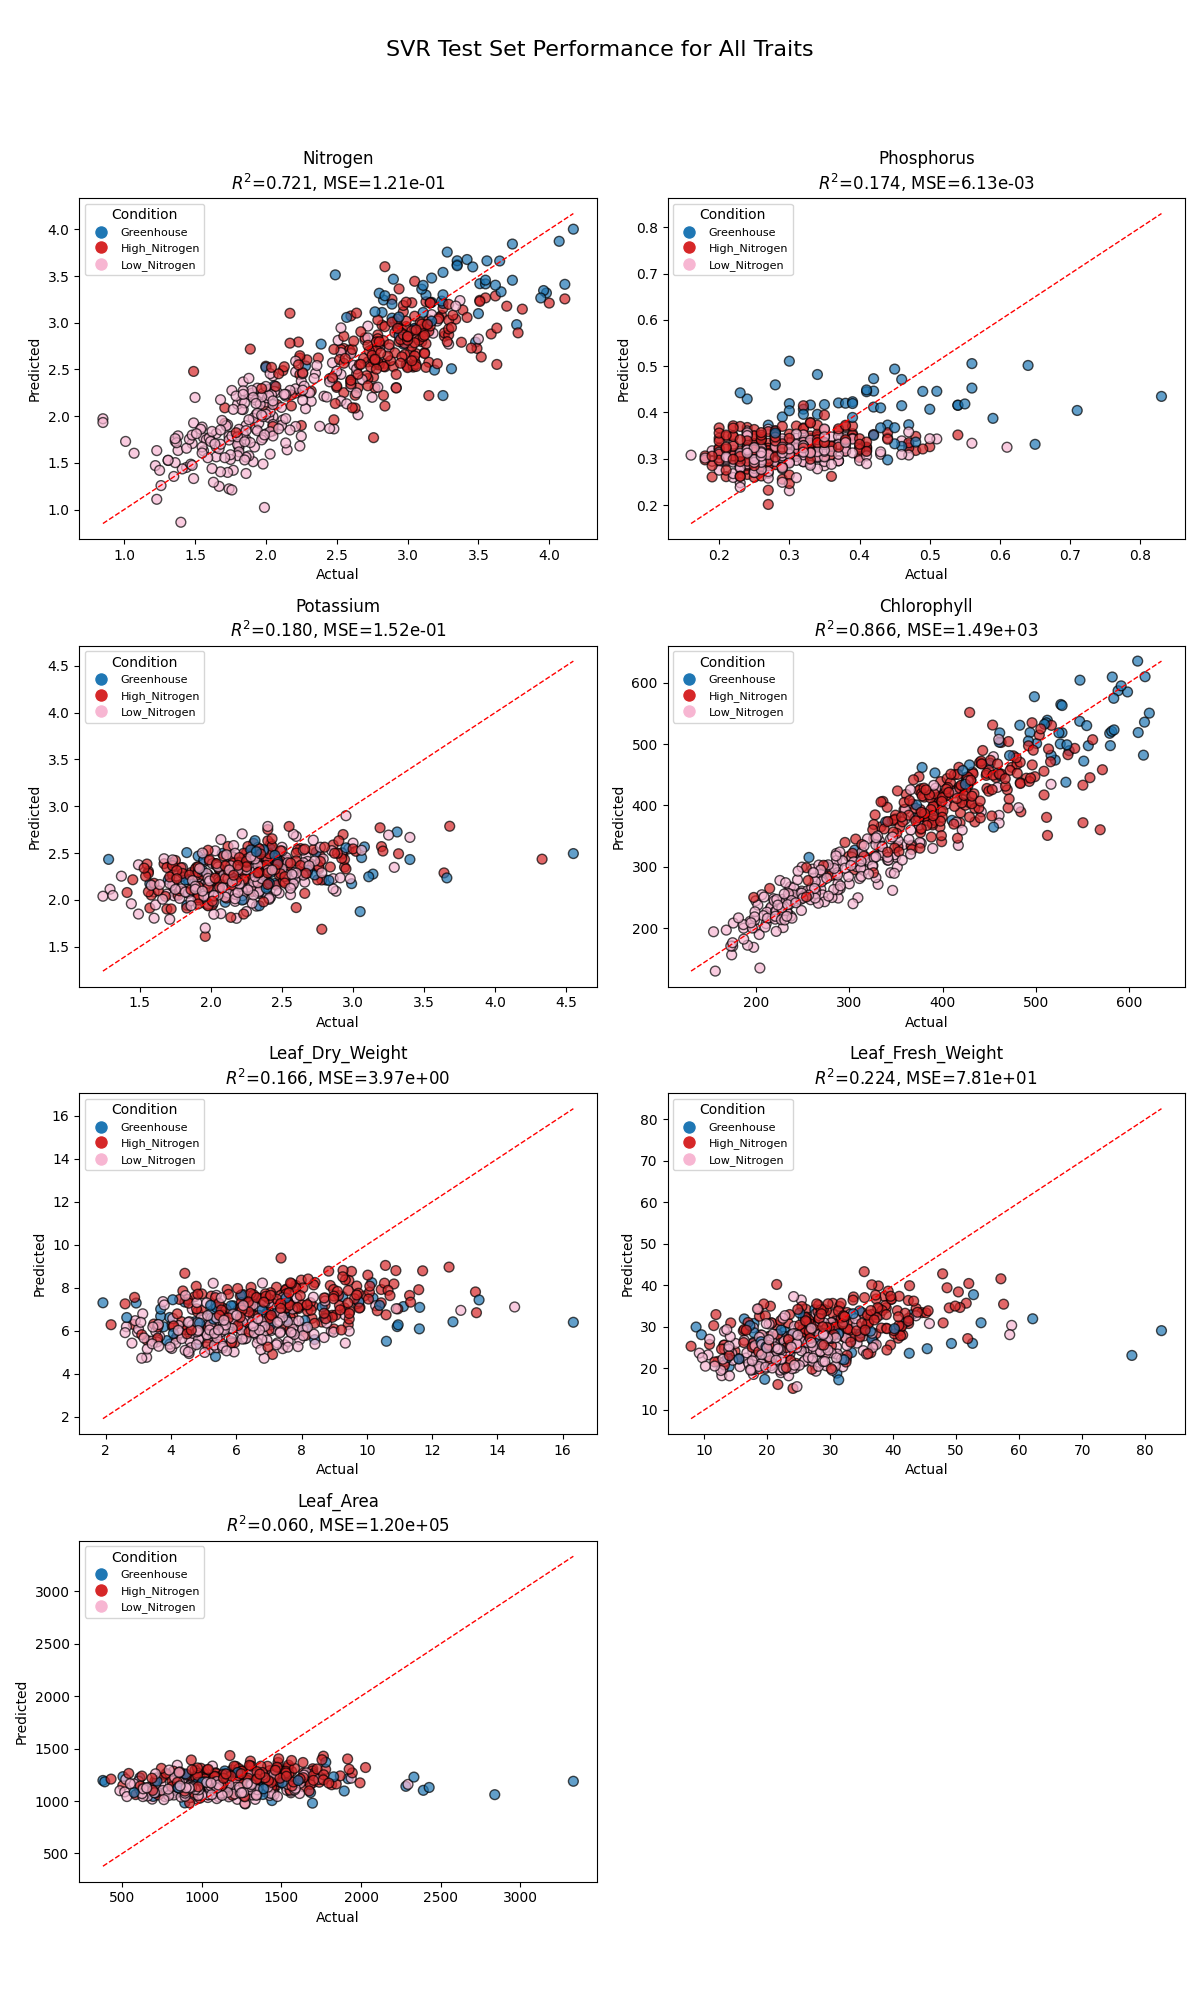
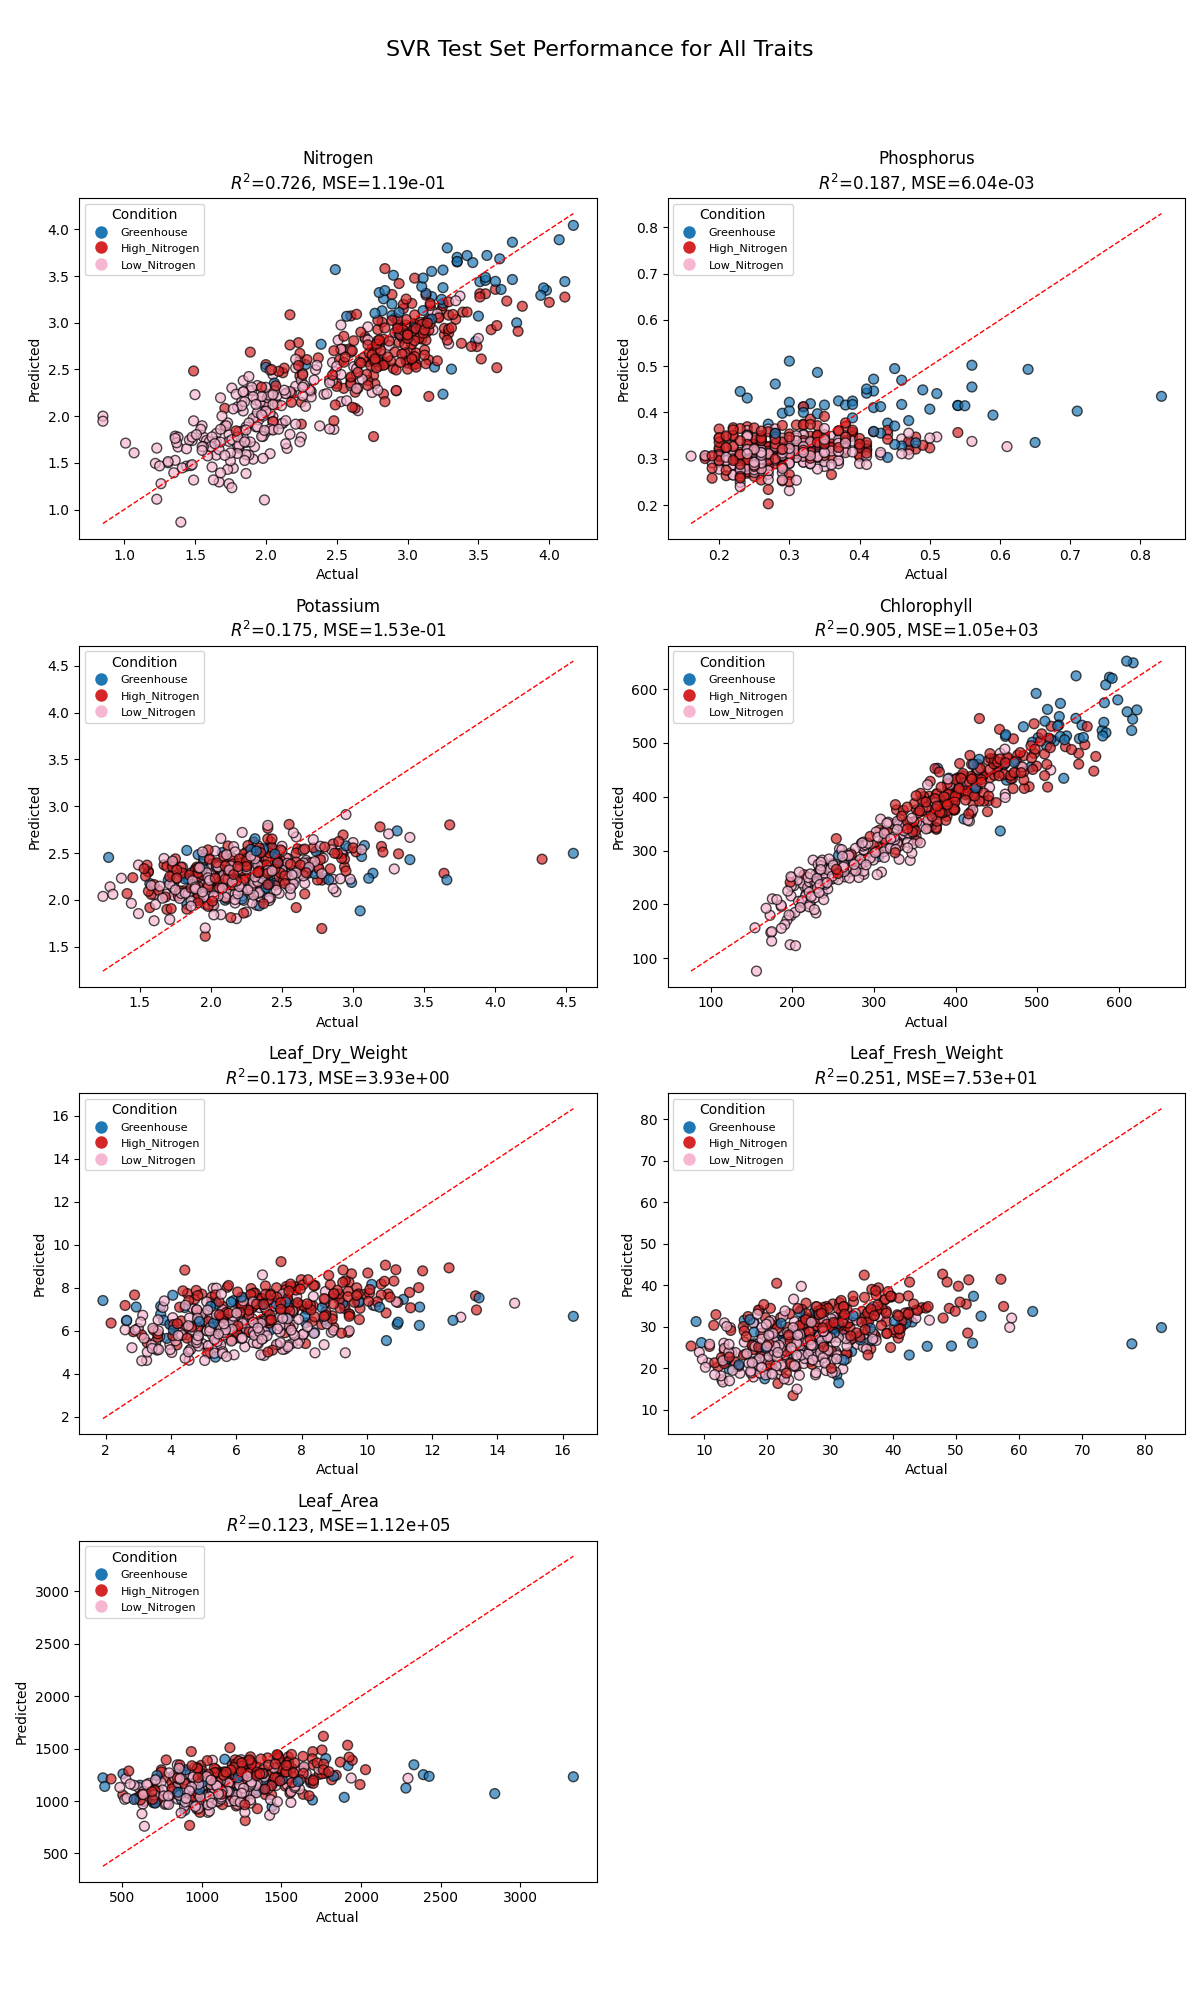
RF class, cross validation included

diff --git a/thesis/S2/data_analysis.py b/thesis/S2/data_analysis.py
@@ -26,6 +26,9 @@ from collections import Counter
 from sklearn.svm import SVR 
 from sklearn.metrics import r2_score, mean_squared_error
 
+from sklearn.ensemble import RandomForestClassifier 
+from sklearn.model_selection import cross_val_score
+
 class C_Data:
     def __init__(self, filenames,filenames_keys, drop_list = [], wavelenght_min = 450): 
         if len(filenames_keys)-1 != len(filenames):
@@ -287,22 +290,102 @@ class C_analysis:
         plt.close()  # Close the plot to free memory 
         print(f"Covariance matrix saved to {self.output_dir_covariance}covariance_matrix_{filenames_key}.png")
 
-class C_Regression:
-    def __init__(self, dataDict):
+
+class C_Test_train_split:
+
+    def __init__(self, dataDict, rand_state=42):
         self.dataDict = dataDict
         self.training_sets_made = False
-        self.srv_exists = False
+        self.x_train = None
+        self.x_test = None
+        self.y_train = None
+        self.y_test = None
+        self.cond_train = None
+        self.cond_test = None 
 
+        self.random_state = rand_state  # For reproducibility 
+
+    def make_training_n_test_sets(self, features_key, class_main_key, class_name, test_size=0.4, conditions_name = 'Conditions', conditions_key = 'Metadata'):
+        
+        x, keys = self.extract_features(features_key)
+        y, trait_key = self.extract_class(class_main_key, class_name)
+        conditions, _ = self.extract_class(conditions_key, conditions_name)  
+        
+        self.x_train, self.x_test, self.y_train, self.y_test, self.cond_train, self.cond_test = self.stratified_split(x, y, conditions, test_size)
+        
+        scaler = StandardScaler()
+        self.x_train = scaler.fit_transform(self.x_train)
+        self.x_test = scaler.transform(self.x_test)
+
+        self.condition_distribution()
+
+        #prove that the split is stratified
+        print("Training set size:", len(self.x_train), "Test set size:", len(self.x_test))
+        self.training_sets_made = True  
+
+        return self.x_train, self.x_test, self.y_train, self.y_test, keys, trait_key 
+
+    def stratified_split(self, x, y, conditions, test_size=0.4):
+        sss = StratifiedShuffleSplit(n_splits=1, test_size=test_size, random_state=self.random_state)
+        for train_idx, test_idx in sss.split(x, y=conditions):
+            x_train, x_test = x[train_idx], x[test_idx]
+            y_train, y_test = y[train_idx], y[test_idx]
+            cond_train, cond_test = np.array(conditions)[train_idx], np.array(conditions)[test_idx]
+            return x_train, x_test, y_train, y_test, cond_train, cond_test
+       
+    def condition_distribution(self):
+        if self.training_sets_made:
+            print("Unique conditions in test set:", np.unique(self.cond_train))
+            
+            train_counts = Counter(self.cond_train)
+            test_counts = Counter(self.cond_test)
+            all_conditions = sorted(set(self.cond_train) | set(self.cond_test))
+
+            print("\nCondition distribution (% in test set):")
+            for cond in all_conditions:
+                train_n = train_counts.get(cond, 0)
+                test_n = test_counts.get(cond, 0)
+                total = train_n + test_n
+                pct_test = 100 * test_n / total if total > 0 else 0
+                print(f"  {cond}: {test_n}/{total} ({pct_test:.1f}%) in test") 
+
+    def extract_features(self, main_key): 
+        sample_entry = next(iter(self.dataDict.values()))[main_key]
+    
+        # Check if keys are numeric 
+        try:
+            num_keys = sorted([int(k) for k in sample_entry.keys()])
+            keys = [str(k) for k in num_keys]
+            x = [[entry[main_key][str(k)] for k in keys] for entry in self.dataDict.values()]
+        except ValueError:
+            keys = list(sample_entry.keys())
+            x = [[entry[main_key][k] for k in keys] for entry in self.dataDict.values()]
+        
+        #self.x = np.array(x) 
+        return np.array(x), keys
+
+    def extract_class(self, main_key, trait_name):
+        y = []
+        for entry in self.dataDict.values(): 
+            y.append(entry[main_key][trait_name])
+        #self.y = np.array(y) 
+        return np.array(y), trait_name
+
+class C_svr:
+    def __init__(self, x_train, x_test, y_train, y_test):
+        self.x_train = x_train
+        self.x_test = x_test
+        self.y_train = y_train
+        self.y_test = y_test
 
     def get_svr(self, kernalType = "poly"):
-        if self.training_sets_made:
-            self.srv_exists = True
-            if kernalType == "rbf":
-                return SVR(kernel=kernalType, C=100, gamma=0.1, epsilon=0.1)
-            elif kernalType == "linear":
-                return SVR(kernel=kernalType, C=100, gamma="auto")
-            elif kernalType == "poly":
-                return SVR(
+        self.srv_exists = True
+        if kernalType == "rbf":
+            return SVR(kernel=kernalType, C=100, gamma=0.1, epsilon=0.1)
+        elif kernalType == "linear":
+            return SVR(kernel=kernalType, C=100, gamma="auto")
+        elif kernalType == "poly":
+            return SVR(
                     kernel=kernalType, 
                     C=100,
                     gamma="auto",
@@ -310,9 +393,9 @@ class C_Regression:
                     epsilon=0.1,
                     coef0=1
                 )
-            else: 
-                self.srv_exists = False
-                raise ValueError(f"Unsupported kernel: {kernalType!r}")
+        else: 
+            self.srv_exists = False
+            raise ValueError(f"Unsupported kernel: {kernalType!r}")
 
     def plot_svr_all_features(self, features_key, class_main_key, features_names):
         # Prepare for combined plotting
@@ -362,119 +445,34 @@ class C_Regression:
         fig.savefig(f"{output_dir}svr_all_traits.png")  # Save figure
         plt.show() 
 
-    def plot_svr_basic(self, svr, lable):
-     if self.training_sets_made and self.srv_exists:  
-            # Fit on training data
-            svr.fit(self.x_train, self.y_train) 
+class C_Dession_trees:
+    def __init__(self, x_train, x_test, y_train, y_test):
+        self.x_train = x_train
+        self.x_test = x_test
+        self.y_train = y_train
+        self.y_test = y_test
 
-            # Generate predictions
-            y_pred_train = svr.predict(self.x_train)
-            y_pred_test  = svr.predict(self.x_test)
+        self.clf = None
 
-            # Prepare figure
-            fig, axes = plt.subplots(1, 2, figsize=(12, 5), sharex=False, sharey=False)
-
-            # Loop over train/test splits
-            for ax, y_true, y_pred, split in zip(
-                axes,
-                (self.y_train,    self.y_test),
-                (y_pred_train, y_pred_test),
-                ("Train",    "Test")
-            ):
-                # Scatter actual vs. predicted
-                ax.scatter(y_true, y_pred, alpha=0.7, edgecolor="k", s=50)
-                
-                # Plot 1:1 line
-                min_val = min(np.min(y_true), np.min(y_pred))
-                max_val = max(np.max(y_true), np.max(y_pred))
-                ax.plot([min_val, max_val], [min_val, max_val], 'r--', lw=1)
-
-                # Compute metrics
-                r2  = r2_score(y_true, y_pred)
-                mse = mean_squared_error(y_true, y_pred)
-
-                # Annotate
-                ax.text(
-                    0.05, 0.95,
-                    f"$R^2$ = {r2:.3f}\nMSE = {mse:.3e}",
-                    transform=ax.transAxes,
-                    va="top",
-                    bbox=dict(boxstyle="round,pad=0.3", facecolor="white", alpha=0.8)
-                )
-
-                # Labels & title
-                ax.set_xlabel("Actual")
-                ax.set_ylabel("Predicted")
-                ax.set_title(f"{split} Set {lable}") 
-
-            fig.suptitle("SVR Performance", fontsize=14)
-            fig.tight_layout(rect=[0, 0.03, 1, 0.95])
-            plt.show()
-
-
-    def make_training_n_test_sets(self, features_key, class_main_key, class_name, test_size=0.4, conditions_name = 'Conditions', conditions_key = 'Metadata'):
-        
-        x, keys = self.extract_features(features_key)
-        y, trait_key = self.extract_class(class_main_key, class_name)
-        conditions, _ = self.extract_class(conditions_key, conditions_name)  
-        
-        self.x_train, self.x_test, self.y_train, self.y_test, self.cond_train, self.cond_test = self.stratified_split(x, y, conditions, test_size)
-        self.condition_distribution()
-
-        #prove that the split is stratified
-        print("Training set size:", len(self.x_train), "Test set size:", len(self.x_test))
-        self.training_sets_made = True  
-
-        return self.x_train, self.x_test, self.y_train, self.y_test, keys, trait_key 
-
-    def stratified_split(self, x, y, conditions, test_size=0.4):
-        sss = StratifiedShuffleSplit(n_splits=1, test_size=test_size, random_state=42)
-        for train_idx, test_idx in sss.split(x, y=conditions):
-            x_train, x_test = x[train_idx], x[test_idx]
-            y_train, y_test = y[train_idx], y[test_idx]
-            cond_train, cond_test = np.array(conditions)[train_idx], np.array(conditions)[test_idx]
-            return x_train, x_test, y_train, y_test, cond_train, cond_test
-       
-    def condition_distribution(self):
-        if self.training_sets_made:
-            print("Unique conditions in test set:", np.unique(self.cond_train))
-            
-            train_counts = Counter(self.cond_train)
-            test_counts = Counter(self.cond_test)
-            all_conditions = sorted(set(self.cond_train) | set(self.cond_test))
-
-            print("\nCondition distribution (% in test set):")
-            for cond in all_conditions:
-                train_n = train_counts.get(cond, 0)
-                test_n = test_counts.get(cond, 0)
-                total = train_n + test_n
-                pct_test = 100 * test_n / total if total > 0 else 0
-                print(f"  {cond}: {test_n}/{total} ({pct_test:.1f}%) in test") 
-
-    def extract_features(self, main_key): 
-        sample_entry = next(iter(self.dataDict.values()))[main_key]
+    def random_forest(self, n_est = 100):  
+         #n_est =  number of trees in the forest.
+        self.clf =  RandomForestClassifier(n_estimators = n_est)
+        self.clf.fit(self.x_train, self.y_train) 
+        y_pred = self.clf.predict(self.x_test)
+        accuracy = np.mean(y_pred == self.y_test)
+        score = self.clf.score(self.x_test, self.y_test) 
+        #F value F1 = 2 * (precision * recall) / (precision + recall
+        print(f"Random Forest Accuracy: {accuracy:.2f}")
+        print(f"Random Forest Score: {score:.2f}") 
+        return self.clf, accuracy
     
-        # Check if keys are numeric 
-        try:
-            num_keys = sorted([int(k) for k in sample_entry.keys()])
-            keys = [str(k) for k in num_keys]
-            x = [[entry[main_key][str(k)] for k in keys] for entry in self.dataDict.values()]
-        except ValueError:
-            keys = list(sample_entry.keys())
-            x = [[entry[main_key][k] for k in keys] for entry in self.dataDict.values()]
-        
-        #self.x = np.array(x) 
-        return np.array(x), keys
+    def cross_val(self, n_splits=10):
+        scores = cross_val_score(self.clf, self.x_train, self.y_train, cv=n_splits)
+        print(f"Cross-validation scores: {scores}")
+        print(f"Mean cross-validation score: {np.mean(scores):.2f}")
+        return scores 
 
-    def extract_class(self, main_key, trait_name):
-        y = []
-        for entry in self.dataDict.values(): 
-            y.append(entry[main_key][trait_name])
-        #self.y = np.array(y) 
-        return np.array(y), trait_name
-    
-
-if __name__ == '__main__':  
+if __name__ == '__main__':    
     print("GO...")
     filenames = [
         'data/maize_2018_2019_unl_metadata.csv',
@@ -494,16 +492,12 @@ if __name__ == '__main__':
     data = C_Data(filenames, filenames_keys)  
     df, dataDict = data.load_data()
     dictManager = C_Dict_manager(dataDict)  
-    
+    """
     features_names = list(next(iter(dataDict.values()))[filenames_keys[2]].keys())
     reg = C_Regression(dataDict) 
     reg.plot_svr_all_features(filenames_keys[3], filenames_keys[2], features_names) 
+    """
 
-    #reg.make_training_n_test_sets(filenames_keys[3], filenames_keys[2], features_names[2])
-    #svr = reg.get_svr("linear")
-    #reg.plot_svr(svr)   
-
-    
 # ...existing code...   
     
     """     
@@ -552,6 +546,56 @@ if __name__ == '__main__':
 
   
     """
+    
+    def plot_svr_basic(self, svr, lable):
+        # Fit on training data
+        svr.fit(self.x_train, self.y_train) 
+
+        # Generate predictions
+        y_pred_train = svr.predict(self.x_train)
+        y_pred_test  = svr.predict(self.x_test)
+
+         # Prepare figure
+        fig, axes = plt.subplots(1, 2, figsize=(12, 5), sharex=False, sharey=False)
+
+        # Loop over train/test splits
+        for ax, y_true, y_pred, split in zip(
+                axes,
+                (self.y_train,    self.y_test),
+                (y_pred_train, y_pred_test),
+                ("Train",    "Test")
+        ):
+                # Scatter actual vs. predicted
+            ax.scatter(y_true, y_pred, alpha=0.7, edgecolor="k", s=50)
+                
+                # Plot 1:1 line
+            min_val = min(np.min(y_true), np.min(y_pred))
+            max_val = max(np.max(y_true), np.max(y_pred))
+            ax.plot([min_val, max_val], [min_val, max_val], 'r--', lw=1)
+
+            # Compute metrics
+            r2  = r2_score(y_true, y_pred)
+            mse = mean_squared_error(y_true, y_pred)
+
+                # Annotate
+            ax.text(
+                    0.05, 0.95,
+                    f"$R^2$ = {r2:.3f}\nMSE = {mse:.3e}",
+                    transform=ax.transAxes,
+                    va="top",
+                    bbox=dict(boxstyle="round,pad=0.3", facecolor="white", alpha=0.8)
+            )
+
+            # Labels & title
+            ax.set_xlabel("Actual")
+            ax.set_ylabel("Predicted")
+            ax.set_title(f"{split} Set {lable}") 
+
+        fig.suptitle("SVR Performance", fontsize=14)
+        fig.tight_layout(rect=[0, 0.03, 1, 0.95])
+        plt.show()
+
+
      
     #"""   
 
